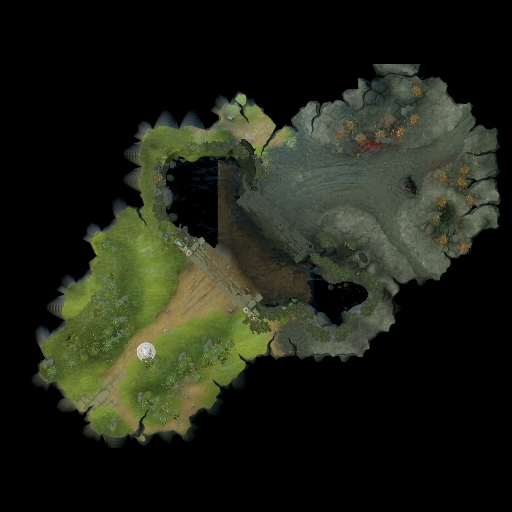
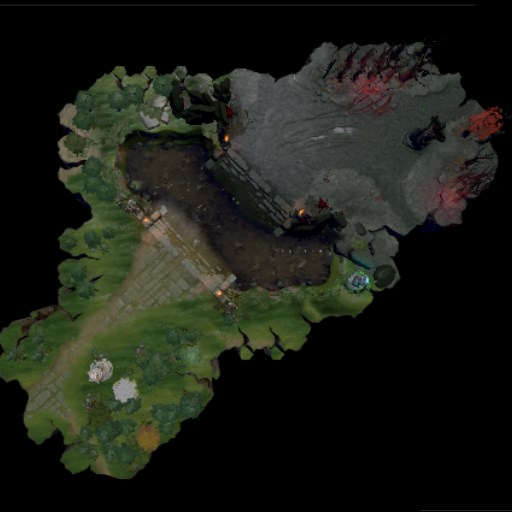
Update heatmap background image to the new map layout

diff --git a/content/dota_addons/lasthitchallenge/panorama/styles/custom_game/heatmap.css b/content/dota_addons/lasthitchallenge/panorama/styles/custom_game/heatmap.css
@@ -22,7 +22,7 @@
   horizontal-align: center;
   margin-top: 10px;
   background-image: url("file://{images}/lasthit.jpg");
-  background-position: -15px -75px, center;
+  background-position: 0px 0px, center;
   background-size: cover;
   background-repeat: no-repeat;
  }
